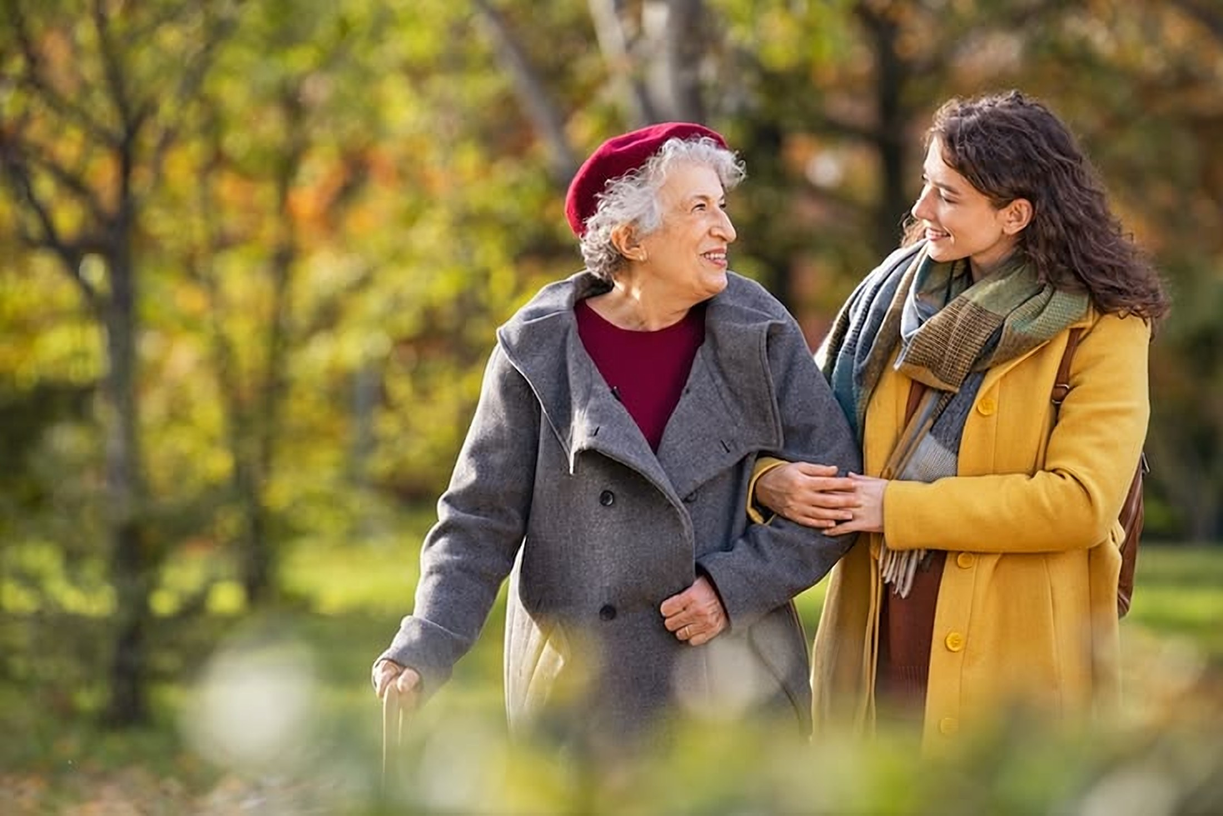
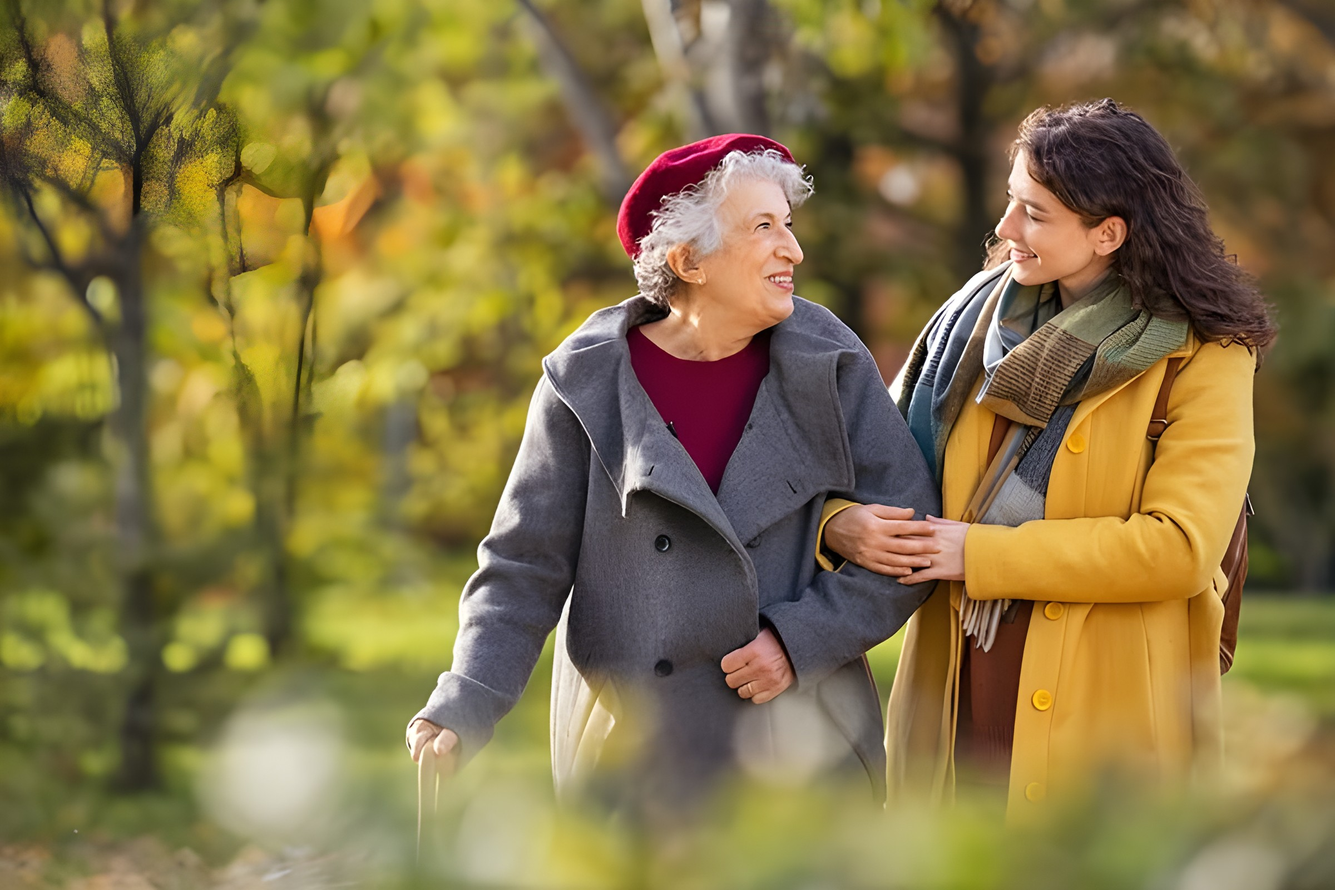
Redesign the home header and hero frame like the WhatsApp reference (#15)
* Add Our Services, Thoughtful visits, Stay connected and FAQ sections to the home page

Adapted from the Voallen companionship website and restyled with the app's
stone palette, rounded cards and type. Works in light and dark mode and on phones.

Claude-Session: https://claude.ai/code/session_0155WvTFk3nVY7U6GLcb9rey

* Show only Philadelphia and remove Deals of the Day from the home page

Drops the Washington D.C., Pittsburgh and Newark sample agencies from the seed
data, the search shortcuts and the FAQ, and removes them from existing databases
on startup (only the seeded samples, never agencies that signed up). Removes the
Deals of the Day section.

Claude-Session: https://claude.ai/code/session_0155WvTFk3nVY7U6GLcb9rey

* Replace the phone mockups with photos

Thoughtful visits now shows the stairs photo. Simple ways to stay connected
shows the breakfast photo for companionship and shared activities, and the
window photo for family video calls and family updates.

Claude-Session: https://claude.ai/code/session_0155WvTFk3nVY7U6GLcb9rey

* Use George's photos in Our Services

Friendly companionship, hospice companionship, reading and games, birthdays and
family updates now use George's photos. Family video calls keeps its photo.
Each photo can set its own focal point so faces stay in frame.

Claude-Session: https://claude.ai/code/session_0155WvTFk3nVY7U6GLcb9rey

* Show Birthday & Special Occasion Visits first in Our Services
[…]

diff --git a/frontend/src/components/ui/hero-section-3.jsx b/frontend/src/components/ui/hero-section-3.jsx
@@ -1,4 +1,4 @@
-import React, { useState } from "react";
+import React, { useEffect, useState } from "react";
 import PropTypes from "prop-types";
 import { Link, useNavigate } from "react-router-dom";
 import { motion } from "framer-motion";
@@ -24,7 +24,7 @@ const CloseIcon = () => (
   </svg>
 );
 
-// The home page hero: one photo, kept clean (no zoom, no slideshow, no fade over the picture)
+// The home page hero: one photo in a rounded frame below a fixed cream header (layout modelled on the WhatsApp reference)
 const hero = {
   image: "/voallen/hero-walk.jpg",
   alt: "An older woman walking arm in arm with a smiling companion in an autumn park.",
@@ -40,6 +40,13 @@ export default function HeroSection3({
 }) {
   const [mobileMenuOpen, setMobileMenuOpen] = useState(false);
   const [query, setQuery] = useState("");
+  const [scrolled, setScrolled] = useState(false);
+  useEffect(() => {
+    const onScroll = () => setScrolled(window.scrollY > 8);
+    onScroll();
+    window.addEventListener("scroll", onScroll, { passive: true });
+    return () => window.removeEventListener("scroll", onScroll);
+  }, []);
   const navigate = useNavigate();
 
   const handleSearch = (e) => {
@@ -48,63 +55,67 @@ export default function HeroSection3({
     navigate(q ? `/agencies?search=${encodeURIComponent(q)}` : "/agencies");
   };
   return (
-    <div className="min-h-[100svh] w-full antialiased text-white relative flex flex-col">
-      {/* Navigation Header */}
-      <header className="absolute inset-x-0 top-0 p-4 sm:p-6 md:p-8 z-30">
-        <div className="container mx-auto flex justify-between items-center">
-          <Link to="/" className="text-xl sm:text-2xl md:text-3xl font-semibold drop-shadow-lg">{logoText}</Link>
-          
-          {/* Desktop Nav */}
-          <nav className="hidden md:flex items-center space-x-1 bg-black/40 backdrop-blur-md rounded-full px-4 py-2">
+    <div className="w-full antialiased text-white relative pt-[72px] sm:pt-[84px]">
+      {/* Header: stays fixed at the top while the page scrolls, on the same cream as the page */}
+      <header
+        className={`fixed inset-x-0 top-0 z-40 h-[72px] sm:h-[84px] bg-[#faf6f0] dark:bg-[#0f0d0c] transition-shadow ${
+          scrolled ? "border-b border-stone-200 shadow-sm" : ""
+        }`}
+      >
+        <div className="h-full mx-auto px-4 sm:px-6 lg:px-[3vw] flex justify-between items-center">
+          <Link to="/" className="text-2xl md:text-[1.75rem] font-semibold tracking-tight text-stone-900">{logoText}</Link>
+
+          {/* Desktop Nav: plain text links */}
+          <nav className="hidden lg:flex items-center gap-9">
             {navLinks.map((link) => (
-              <Link 
-                key={link.href + link.label} 
-                to={link.href} 
-                className="px-3 py-1.5 text-white font-medium text-sm hover:bg-white/20 rounded-full transition-all duration-200"
+              <Link
+                key={link.href + link.label}
+                to={link.href}
+                className="text-[17px] font-medium text-stone-800 hover:text-stone-500 transition-colors"
               >
                 {link.label}
               </Link>
             ))}
           </nav>
-          
-          {/* Desktop Auth Buttons */}
-          <div className="hidden sm:flex items-center space-x-2 bg-black/40 backdrop-blur-md rounded-full px-3 py-1.5">
-            <Link to="/agencies" aria-label="Search agencies" className="p-1.5 hover:bg-white/20 rounded-full transition-colors">
+
+          {/* Desktop actions */}
+          <div className="hidden sm:flex items-center gap-3">
+            <Link to="/agencies" aria-label="Search agencies" className="p-2 text-stone-800 hover:bg-stone-100 rounded-full transition-colors">
               <SearchIcon />
             </Link>
-            <ThemeToggle className="text-white hover:bg-white/20" />
+            <ThemeToggle className="text-stone-800 hover:bg-stone-100" />
             {user ? (
               <>
-                <Link to="/dashboard" className="px-3 py-1.5 text-white font-medium text-sm hover:bg-white/20 rounded-full transition-colors">
-                  Dashboard
+                <Link to="/dashboard" className="inline-flex items-center gap-1.5 rounded-full border-2 border-stone-900 px-5 py-2.5 text-[17px] font-medium text-stone-900 hover:bg-stone-100 transition-colors">
+                  Dashboard <ChevronRight className="w-4 h-4" />
                 </Link>
-                <button 
+                <button
                   onClick={onLogout}
-                  className="bg-white text-stone-800 rounded-full px-4 py-1.5 text-sm font-semibold hover:bg-stone-100 transition-colors"
+                  className="rounded-full px-6 py-3 text-[17px] font-medium bg-[#1c1917] text-[#fafaf9] dark:bg-[#fafaf9] dark:text-[#1c1917] hover:opacity-90 transition-opacity"
                 >
                   Logout
                 </button>
               </>
             ) : (
               <>
-                <Link to="/login" className="px-3 py-1.5 text-white font-medium text-sm hover:bg-white/20 rounded-full transition-colors">
-                  Login
+                <Link to="/login" className="inline-flex items-center gap-1.5 rounded-full border-2 border-stone-900 px-5 py-2.5 text-[17px] font-medium text-stone-900 hover:bg-stone-100 transition-colors">
+                  Log In <ChevronRight className="w-4 h-4" />
                 </Link>
-                <Link 
+                <Link
                   to="/signup"
-                  className="bg-white text-stone-800 rounded-full px-4 py-1.5 text-sm font-semibold hover:bg-stone-100 transition-colors"
+                  className="inline-flex items-center gap-1.5 rounded-full px-6 py-3 text-[17px] font-medium bg-[#1c1917] text-[#fafaf9] dark:bg-[#fafaf9] dark:text-[#1c1917] hover:opacity-90 transition-opacity"
                 >
-                  Join
+                  Join <ArrowUpRight className="w-4 h-4" />
                 </Link>
               </>
             )}
           </div>
 
           {/* Mobile Menu Button */}
-          <div className="sm:hidden flex items-center gap-2">
-            <ThemeToggle className="text-white bg-black/40 backdrop-blur-md hover:bg-black/60" />
-            <button 
-              className="p-2 bg-black/40 backdrop-blur-md rounded-full"
+          <div className="sm:hidden flex items-center gap-1">
+            <ThemeToggle className="text-stone-800 hover:bg-stone-100" />
+            <button
+              className="p-2 text-stone-900 rounded-full hover:bg-stone-100"
               onClick={() => setMobileMenuOpen(!mobileMenuOpen)}
               aria-label="Toggle menu"
             >
@@ -115,51 +126,51 @@ export default function HeroSection3({
 
         {/* Mobile Menu Dropdown */}
         {mobileMenuOpen && (
-          <div className="sm:hidden mt-4 bg-black/80 backdrop-blur-lg rounded-2xl p-4 mx-2 animate-in fade-in slide-in-from-top-2 duration-200">
+          <div className="sm:hidden mx-4 bg-[#faf6f0] dark:bg-[#0f0d0c] border border-stone-200 rounded-2xl p-4 shadow-xl animate-in fade-in slide-in-from-top-2 duration-200">
             <nav className="flex flex-col space-y-1 mb-4">
               {navLinks.map((link) => (
-                <Link 
-                  key={link.href + link.label} 
+                <Link
+                  key={link.href + link.label}
                   to={link.href}
                   onClick={() => setMobileMenuOpen(false)}
-                  className="px-4 py-3 text-white font-medium text-base hover:bg-white/10 rounded-xl transition-colors"
+                  className="px-4 py-3 text-stone-900 font-medium text-base hover:bg-stone-100 rounded-xl transition-colors"
                 >
                   {link.label}
                 </Link>
               ))}
             </nav>
-            <div className="border-t border-white/20 pt-4 space-y-2">
+            <div className="border-t border-stone-200 pt-4 space-y-2">
               {user ? (
                 <>
-                  <Link 
-                    to="/dashboard" 
+                  <Link
+                    to="/dashboard"
                     onClick={() => setMobileMenuOpen(false)}
-                    className="block px-4 py-3 text-white font-medium text-base hover:bg-white/10 rounded-xl transition-colors"
+                    className="block px-4 py-3 text-stone-900 font-medium text-base hover:bg-stone-100 rounded-xl transition-colors"
                   >
                     Dashboard
                   </Link>
-                  <button 
+                  <button
                     onClick={() => { onLogout(); setMobileMenuOpen(false); }}
-                    className="w-full px-4 py-3 text-red-400 font-medium text-base text-left hover:bg-white/10 rounded-xl transition-colors"
+                    className="w-full px-4 py-3 text-red-600 font-medium text-base text-left hover:bg-stone-100 rounded-xl transition-colors"
                   >
                     Logout
                   </button>
                 </>
               ) : (
                 <>
-                  <Link 
-                    to="/login" 
+                  <Link
+                    to="/login"
                     onClick={() => setMobileMenuOpen(false)}
-                    className="block px-4 py-3 text-white font-medium text-base hover:bg-white/10 rounded-xl transition-colors"
+                    className="block px-4 py-3 rounded-full border-2 border-stone-900 text-stone-900 font-medium text-base text-center"
                   >
-                    Sign In
+                    Log In
                   </Link>
-                  <Link 
+                  <Link
                     to="/signup"
                     onClick={() => setMobileMenuOpen(false)}
-                    className="block w-full bg-white text-stone-800 rounded-xl px-4 py-3 text-base font-semibold text-center hover:bg-stone-100 transition-colors"
+                    className="block w-full rounded-full px-4 py-3 text-base font-medium text-center bg-[#1c1917] text-[#fafaf9] dark:bg-[#fafaf9] dark:text-[#1c1917]"
                   >
-                    Get Started
+                    Join Voallen
                   </Link>
                 </>
               )}
@@ -168,17 +179,18 @@ export default function HeroSection3({
         )}
       </header>
 
-      {/* Hero photo fills the whole screen */}
+      {/* Hero frame: a rounded photo card with side margins, a little shorter than the screen */}
+      <div className="relative mx-3 sm:mx-6 lg:mx-[3vw] mt-1 rounded-[1.75rem] sm:rounded-[2.5rem] overflow-hidden flex flex-col min-h-[calc(100svh-96px)] sm:min-h-[calc(100svh-120px)] lg:min-h-0 lg:h-[calc(100svh-140px)] lg:max-h-[860px] lg:min-h-[640px]">
       <img
         src={hero.image}
         alt={hero.alt}
         className="absolute inset-0 w-full h-full object-cover object-[74%_center] md:object-[center_40%]"
         fetchpriority="high"
       />
-      {/* Soft shade at the bottom so the headline stays readable over the photo */}
-      <div className="absolute inset-0 bg-gradient-to-t from-black/55 via-black/10 to-transparent" aria-hidden="true" />
+      {/* Soft shade on the left so the white text stays readable */}
+      <div className="absolute inset-0 bg-gradient-to-r from-black/45 via-black/15 to-transparent" aria-hidden="true" />
 
-      <main className="relative z-10 flex-1 flex items-center pt-28 pb-12 sm:pt-32">
+      <main className="relative z-10 flex-1 flex items-center py-10 lg:py-8">
         <div className="container mx-auto px-4 sm:px-6 md:px-8 flex flex-col items-stretch sm:items-start gap-8 lg:gap-10">
           {/* Headline and search card stack on the left, over the soft trees, so the faces stay clear */}
           <div className="max-w-2xl">
@@ -250,6 +262,7 @@ export default function HeroSection3({
           </motion.form>
         </div>
       </main>
+      </div>
     </div>
   );
 }

diff --git a/frontend/src/App.js b/frontend/src/App.js
@@ -103,11 +103,11 @@ const WishlistProvider = ({ children }) => {
 };
 
 // Radial Gradient Background Component (warm brown/nature theme)
-const PageBackground = ({ children, className = "" }) => {
+const PageBackground = ({ children, className = "", tone = "white" }) => {
   return (
     <div className={`min-h-screen w-full relative ${className}`}>
-      {/* Airbnb-style clean bright white background */}
-      <div className="fixed inset-0 z-0 bg-white dark:bg-[#0f0d0c]" />
+      {/* Page background: clean white, or the warm cream used on the home page behind the header and hero */}
+      <div className={`fixed inset-0 z-0 ${tone === "cream" ? "bg-[#faf6f0]" : "bg-white"} dark:bg-[#0f0d0c]`} />
       {/* Content */}
       <div className="relative z-10">{children}</div>
     </div>
@@ -511,7 +511,7 @@ const HeroSection = () => {
 // Home Page
 const HomePage = () => {
   return (
-    <PageBackground>
+    <PageBackground tone="cream">
       {/* New Hero Section with integrated header */}
       <NewHeroSection />
       
